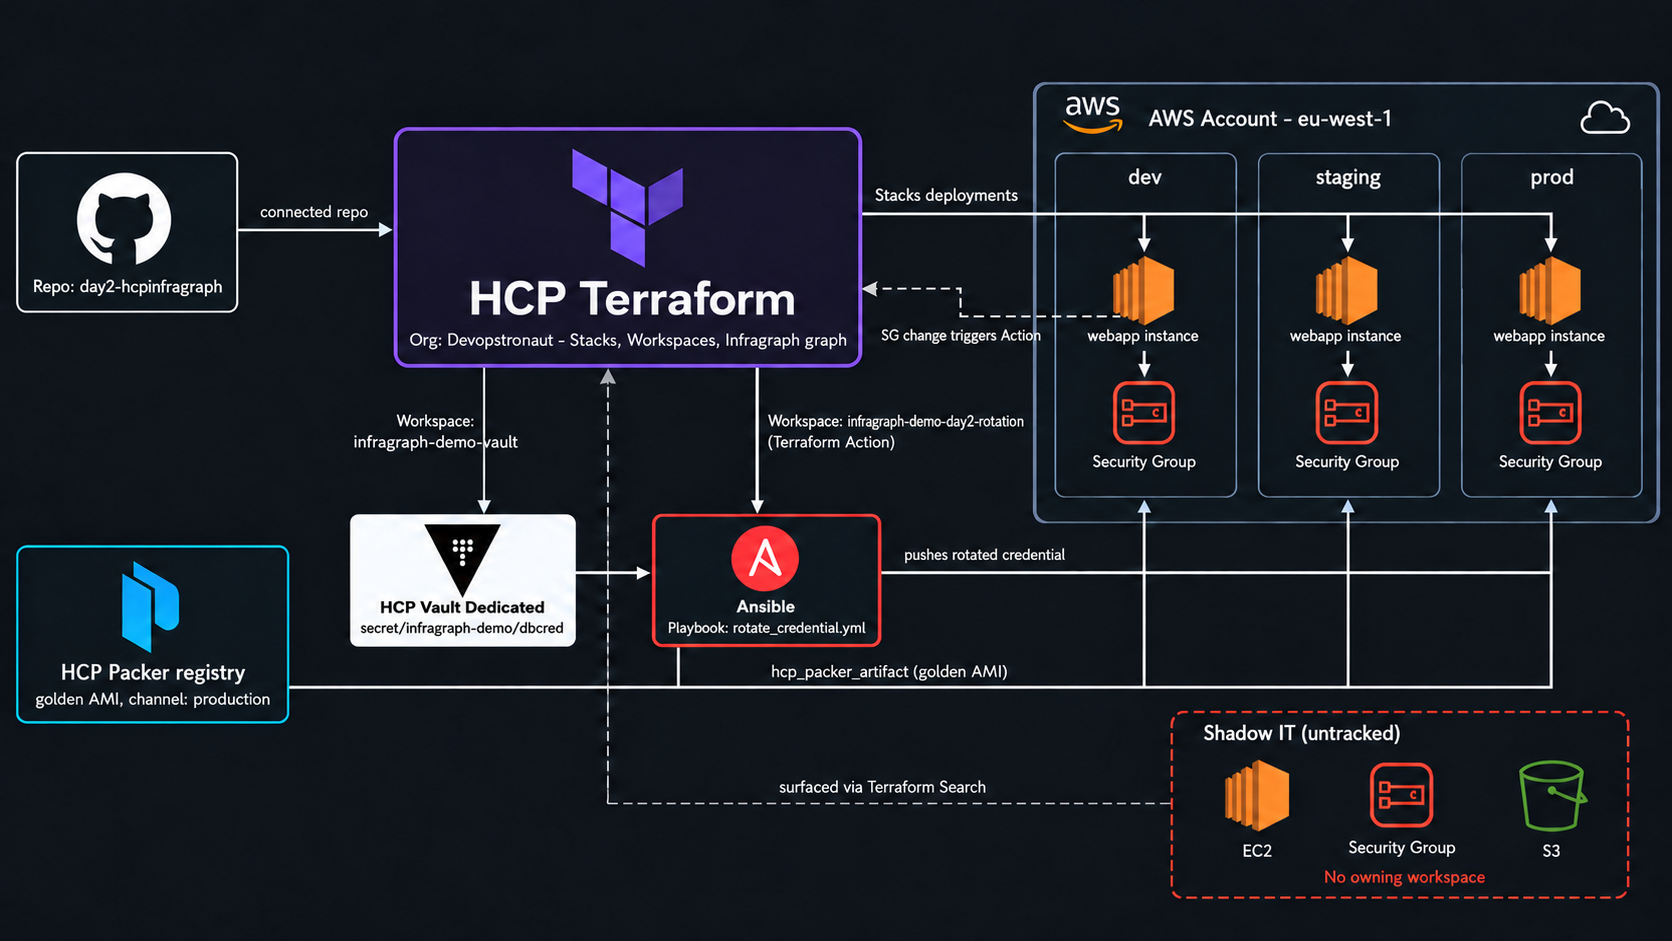
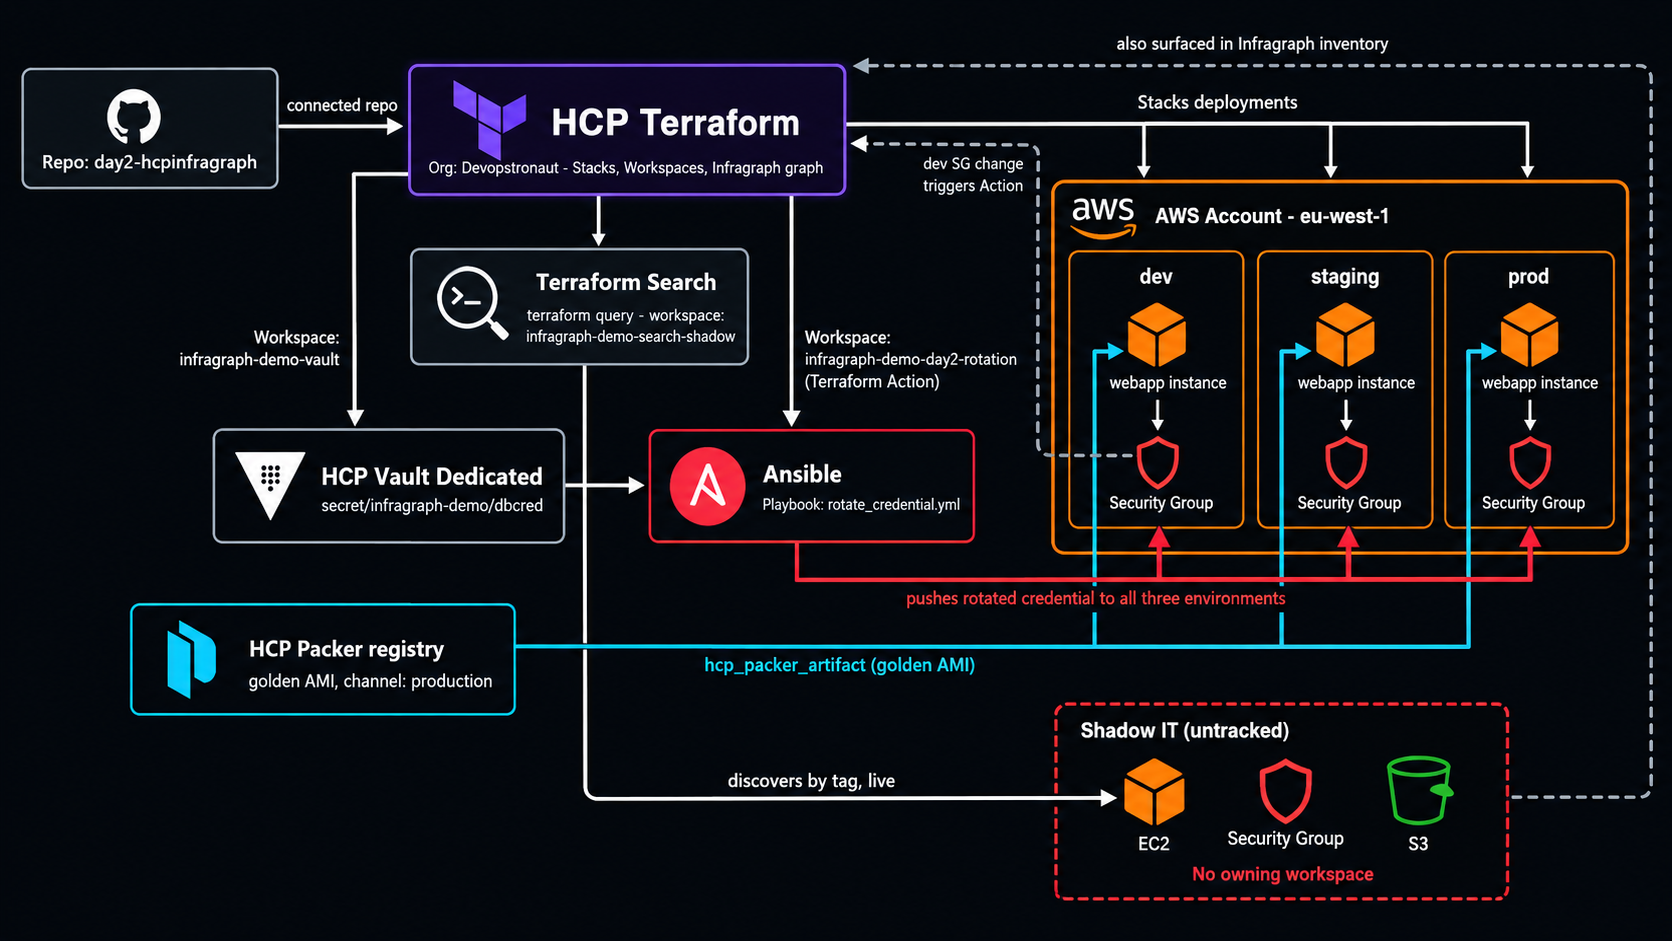
Regenerate the architecture diagram to match reality
Replaces the stale pre-session PNG with an accurate one: distinct
Terraform Search workspace (not conflated with Infragraph), dev-only
SG-change trigger label, and Ansible fanning out to all three
environments instead of just dev. Updates the alt text to match.

Changed region(s): [[0.0, 0.0308, 0.9952, 0.9554], [0.622, 0.9245, 0.6531, 0.9554]]

diff --git a/README.md b/README.md
@@ -32,7 +32,7 @@ org -- not a sandboxed local-only walkthrough.
 
 ## Architecture
 
-![Architecture diagram: GitHub repo connected to HCP Terraform (org Devopstronaut, Stacks + Workspaces + Infragraph graph), which pulls a golden AMI from HCP Packer and drives dev/staging/prod EC2 + Security Groups in AWS eu-west-1; HCP Vault Dedicated and Ansible rotate the webapp DB credential and push it to those instances; a separate untracked Shadow IT box (EC2, Security Group, S3) discovered live by Terraform Search (terraform query) and also surfaced in the Infragraph resource inventory](docs/images/architecture.png)
+![Architecture diagram: GitHub repo connected to HCP Terraform (org Devopstronaut, Stacks + Workspaces + Infragraph graph), which pulls a golden AMI from HCP Packer and drives dev/staging/prod EC2 + Security Groups in AWS eu-west-1; a dev-SG-change triggers the day2-rotation Action, which rotates a credential in HCP Vault Dedicated and has Ansible push it to all three environments; a separate Terraform Search workspace (infragraph-demo-search-shadow) discovers an untracked Shadow IT box (EC2, Security Group, S3) live by tag, also surfaced separately in the Infragraph resource inventory](docs/images/architecture.png)
 
 <details>
 <summary>Mermaid source (text fallback)</summary>
